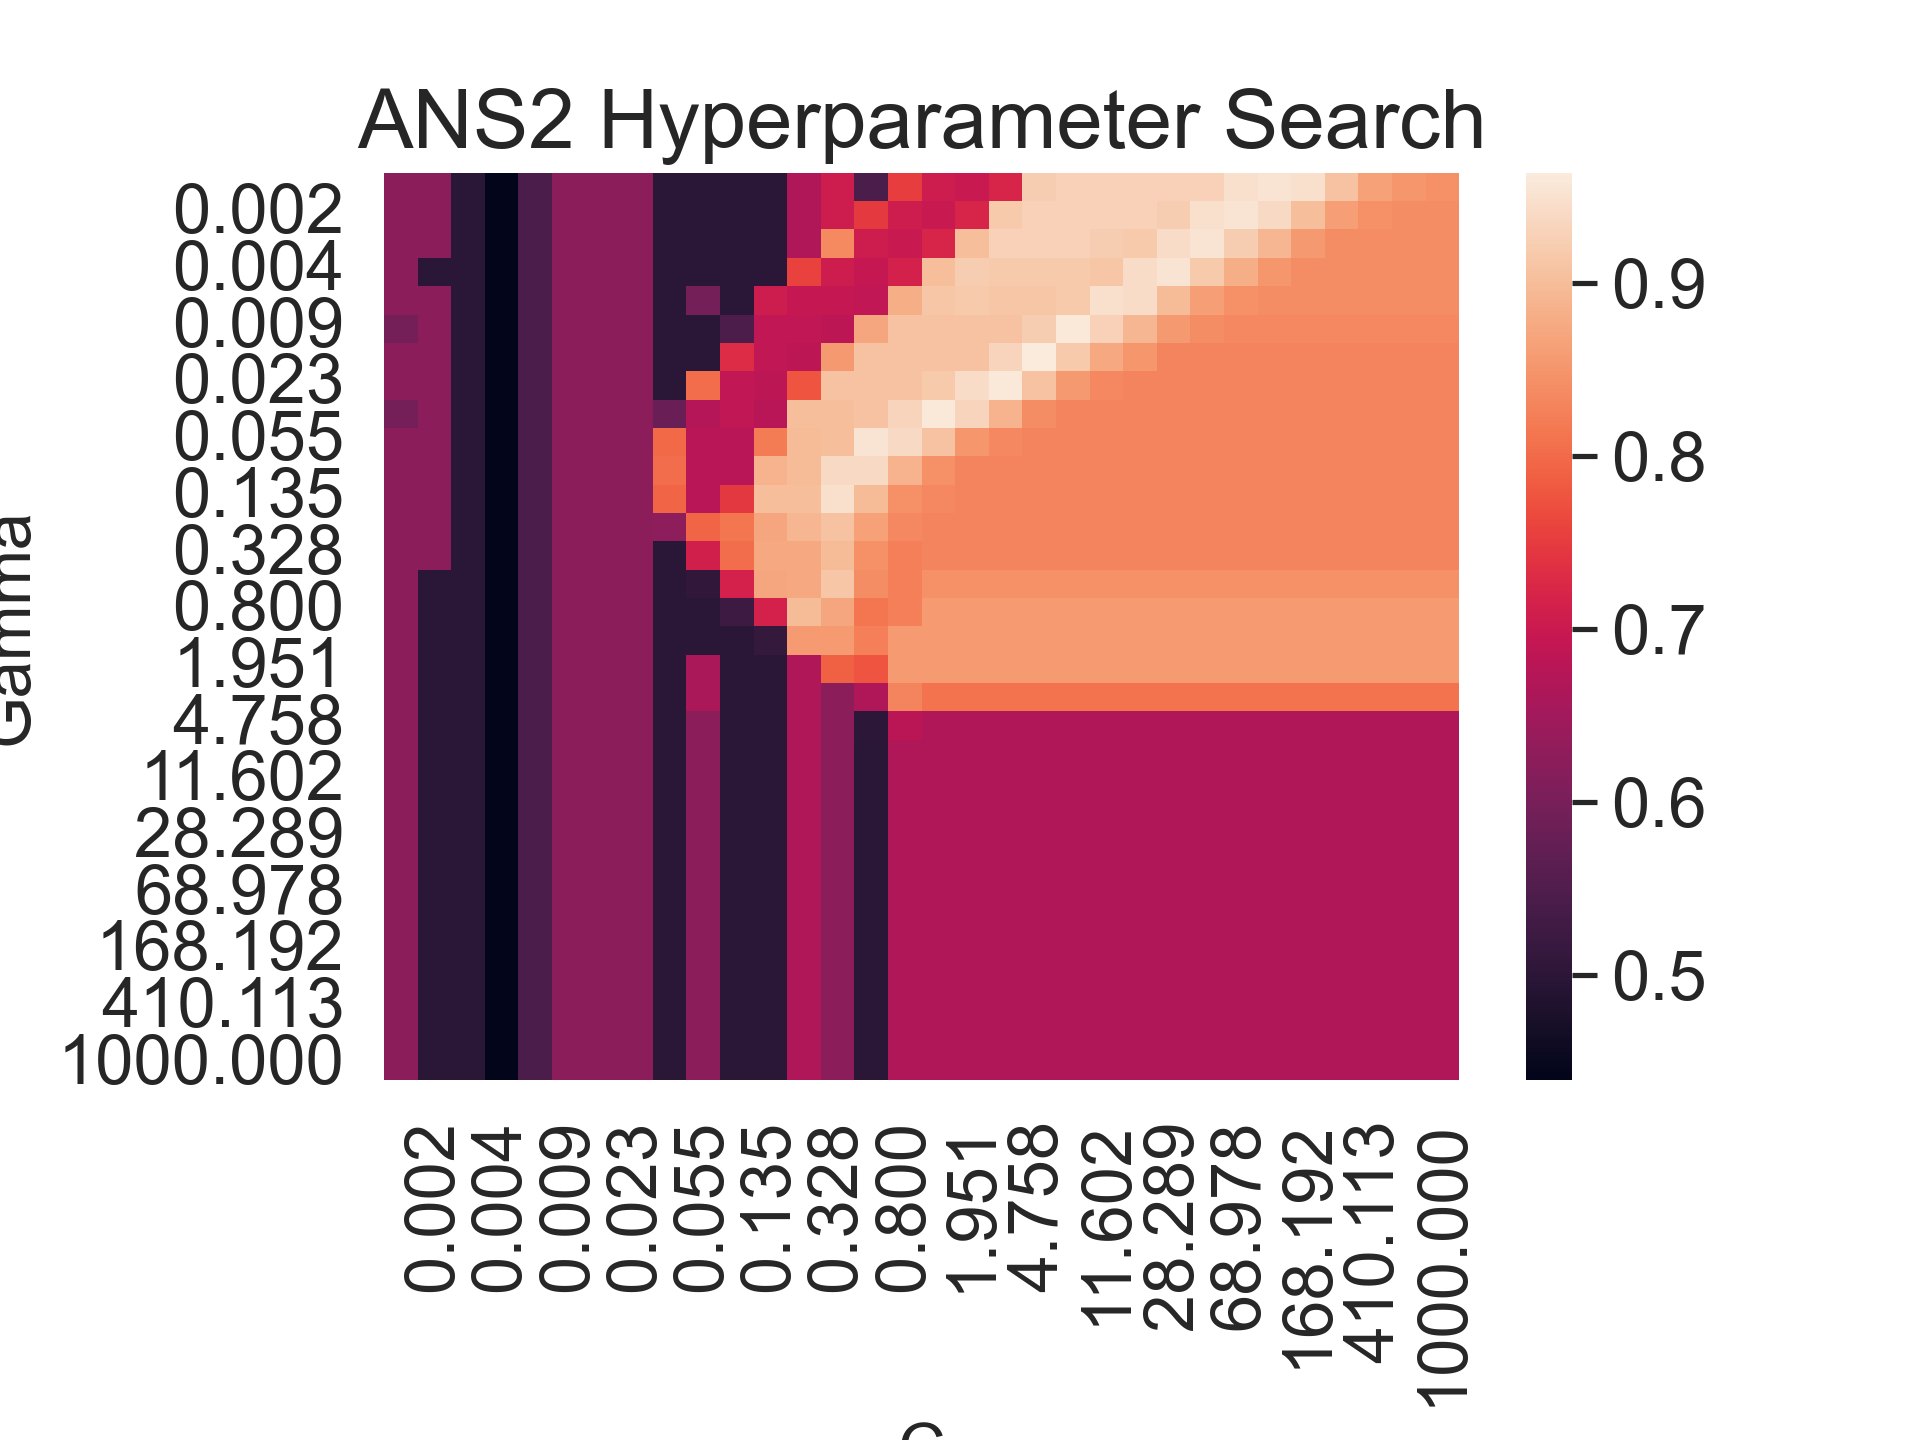
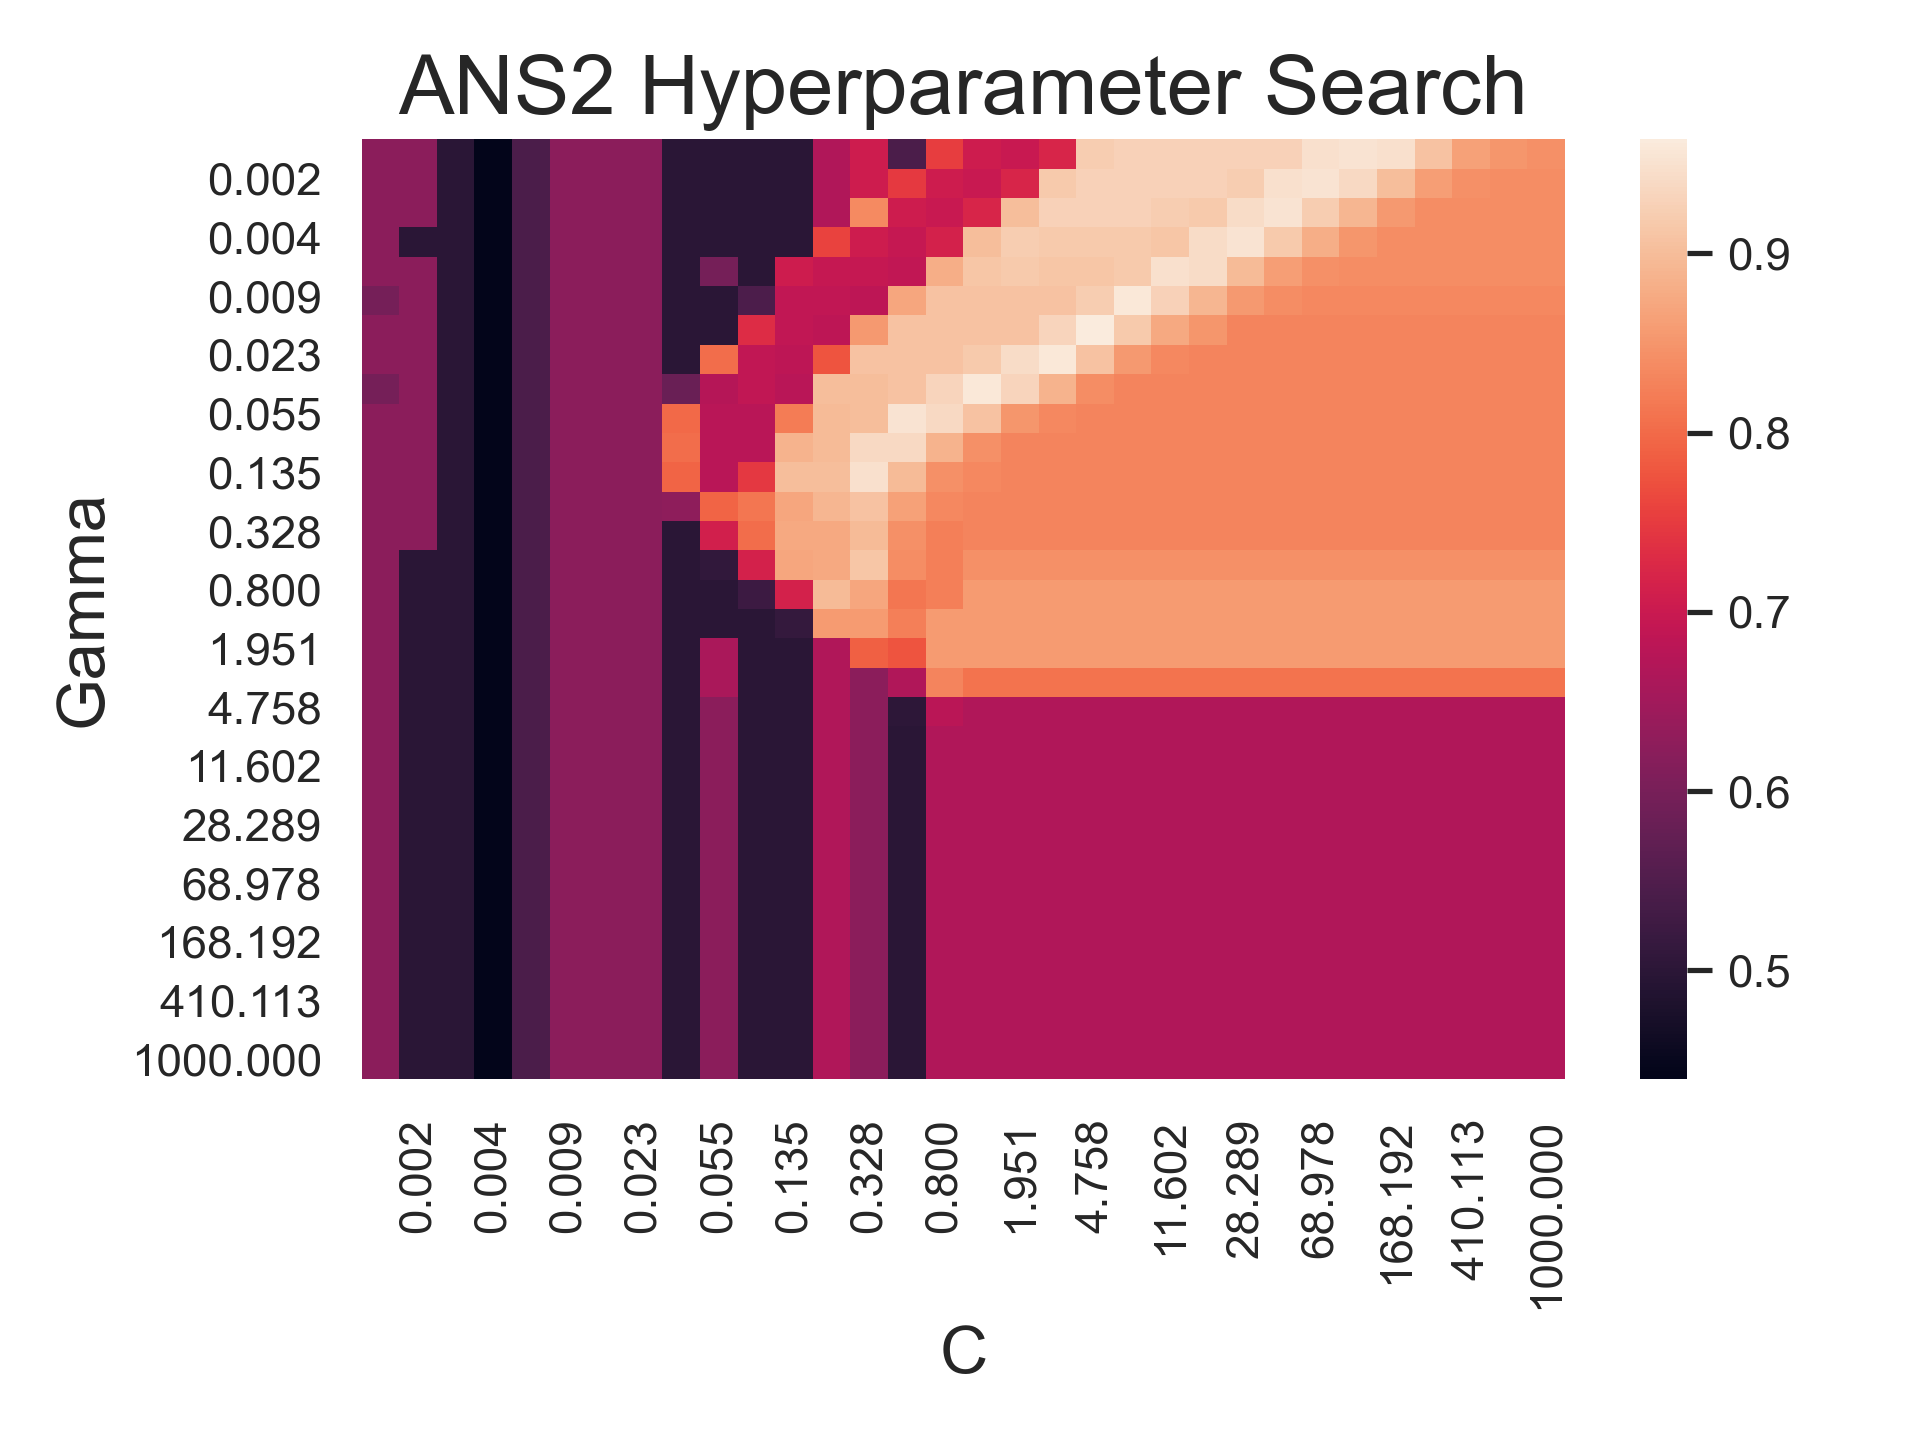
major refactor, add heatmap results.

diff --git a/analyze_ICA_components.py b/analyze_ICA_components.py
@@ -1,0 +1,157 @@
+import re
+import pandas as pd
+import seaborn as sns
+import matplotlib.pyplot as plt
+from scipy.stats import ttest_ind
+
+
+def load_data(file_path):
+    """Load CSV data into a pandas DataFrame with manual headers."""
+    return pd.read_csv(file_path, header=None,
+                       names=['File Path', 'Number of Components', 'Mean Component Probability'])
+
+
+def extract_subject_code(file_path):
+    """Extract subject code from the file path."""
+    match = re.search(r'\\([A-Z]+[0-9]+)\\', file_path)
+    if match:
+        return match.group(1)
+    return None
+
+
+def map_private_to_public(file_path, group, df_CodeMap):
+    """Map private subject code to public subject code using the CodeMap."""
+    subject_code = extract_subject_code(file_path)
+    if subject_code:
+        # print(f"Subject Code: {subject_code}")
+        match_row = None
+        if group == 'AWS' and subject_code.startswith('S'):
+            # print("Mapping to AWS")
+            match_row = df_CodeMap[df_CodeMap['AWS'] == subject_code]
+        elif group == 'ANS' and subject_code.startswith('C'):
+            # print("Mapping to ANS")
+            match_row = df_CodeMap[df_CodeMap['ANS'] == subject_code]
+
+        if match_row is not None and not match_row.empty:
+            return match_row.iloc[0]['AWS_New'] if group == 'AWS' else match_row.iloc[0]['ANS_New']
+
+    return None
+
+
+def preprocess_data(df, group, df_CodeMap):
+    """Preprocess the data by mapping private to public subject codes."""
+    df['Public_Code'] = df.apply(lambda row: map_private_to_public(row['File Path'], group, df_CodeMap), axis=1)
+    df = df.dropna(subset=['Public_Code'])  # Drop rows where Public_Code is None
+    return df
+
+
+def create_seaborn_plot(df):
+    """Create a seaborn bar plot comparing the number of components across groups."""
+    sns.set(style="whitegrid")
+
+    # Assuming your columns are named 'Public_Code', 'Number of Components', and 'Group'
+    sns.barplot(x='Public_Code', y='Number of Components', hue='Group', data=df)
+
+    plt.title('Number of Non-Artifactual Components')
+    plt.xlabel('Subject')
+    plt.ylabel('Number of Components')
+    plt.legend(title='Group')
+
+    # Rotate X axis labels for better readability
+    plt.xticks(rotation=45, ha='right')
+
+    # Save the plot with informative name
+    plt.savefig('number_of_components_comparison.png', dpi=300)
+
+    # Show the plot
+    plt.show()
+
+
+def create_mean_probability_plot(df):
+    """Create a seaborn bar plot comparing the mean probability across groups."""
+    sns.set(style="whitegrid")
+
+    # Remove percentage sign and convert to decimal
+    df['Mean Component Probability'] = df['Mean Component Probability'].str.rstrip('%').astype('float') / 100.0
+
+    # Assuming your columns are named 'Public_Code', 'Mean Component Probability', and 'Group'
+    sns.barplot(x='Public_Code', y='Mean Component Probability', hue='Group', data=df)
+
+    plt.title('Mean Component Probability Comparison')
+    plt.xlabel('Subject')
+    plt.ylabel('Mean Component Probability')
+    plt.legend(title='Group')
+
+    # Rotate X axis labels for better readability
+    plt.xticks(rotation=45, ha='right')
+
+    # Save the plot with an informative name
+    plt.savefig('mean_component_probability_comparison.png', dpi=300)
+
+    # Show the plot
+    plt.show()
+
+
+def conduct_t_tests(df):
+    """Conduct independent t-tests and save results to a CSV file."""
+    ans_data = df[df['Group'] == 'ANS']['Number of Components']
+    aws_data = df[df['Group'] == 'AWS']['Number of Components']
+
+    # Independent t-test for Number of Components
+    t_stat_comp, p_val_comp = ttest_ind(ans_data, aws_data, equal_var=False)
+
+    ans_prob = df[df['Group'] == 'ANS']['Mean Component Probability']
+    aws_prob = df[df['Group'] == 'AWS']['Mean Component Probability']
+
+    # Independent t-test for Mean Component Probability
+    t_stat_prob, p_val_prob = ttest_ind(ans_prob, aws_prob, equal_var=False)
+
+    # Create a DataFrame to save the results
+    results_df = pd.DataFrame({
+        'Metric': ['Number of Components', 'Mean Component Probability'],
+        'T-Statistic': [t_stat_comp, t_stat_prob],
+        'P-Value': [p_val_comp, p_val_prob]
+    })
+
+    # Save the results to a CSV file
+    results_df.to_csv('t_test_results.csv', index=False)
+
+    return results_df
+
+
+def main():
+    # Step 1: Load the data
+    file_path_ANS = r'D:\Research\EEG-DIVA\SpeakingDAF\SpeakingDAF\ICA_summary_stats_ANS.csv'
+    file_path_AWS = r'D:\Research\EEG-DIVA\SpeakingDAF_S\ICA_summary_stats_AWS.csv'
+    file_path_CodeMap = r'H:\My Drive\Fall 2022\eeg_proj\eeglab2021.1\Subject_CodeMap.csv'
+
+    df_ANS = load_data(file_path_ANS)
+    df_AWS = load_data(file_path_AWS)
+    # Assign 'Group' column to df_ANS and df_AWS
+    df_ANS['Group'] = 'ANS'
+    df_AWS['Group'] = 'AWS'
+
+    # Concatenate dataframes
+    df_combined = pd.concat([df_ANS, df_AWS], ignore_index=True)
+
+    # Preprocess data and create 'Public_Code' column
+    df_CodeMap = pd.read_csv(file_path_CodeMap)
+    df_ANS = preprocess_data(df_ANS, 'ANS', df_CodeMap)
+    df_AWS = preprocess_data(df_AWS, 'AWS', df_CodeMap)
+
+    # Combine dataframes
+    df_combined = pd.concat([df_ANS, df_AWS], ignore_index=True)
+    # Remove percentage sign and convert to decimal
+    df_combined['Mean Component Probability'] = df_combined['Mean Component Probability'].str.rstrip('%').astype('float') / 100.0
+
+    # Create seaborn plots
+    # create_seaborn_plot(df_combined)
+    # create_mean_probability_plot(df_combined)
+    # Usage
+    t_test_results = conduct_t_tests(df_combined)
+
+    # print(t_test_results)
+
+
+if __name__ == "__main__":
+    main()

diff --git a/util.py b/util.py
@@ -104,7 +104,71 @@ def update_column_in_dataframes(directory_path, column_name, replacement_dict):
 
 
 # Example usage:
-directory_path = './pkl_data'  # Replace with the path to your directory containing .pkl files
-column_name = 'Subject'  # Replace with the name of the column you want to update
+# directory_path = './pkl_data'  # Replace with the path to your directory containing .pkl files
+# column_name = 'Subject'  # Replace with the name of the column you want to update
+#
+# update_column_in_dataframes(directory_path, column_name, replacement_dict)
 
-update_column_in_dataframes(directory_path, column_name, replacement_dict)
+from PIL import Image
+import os
+import re
+
+
+def extract_subject_number(filename):
+    # Extract the numeric part of the filename
+    match = re.search(r'(\d+)', filename[2:])
+    if match:
+        return int(match.group(0))
+    return 0
+
+
+def merge_images(directory_path):
+    # Create a merged directory if it doesn't exist
+    merged_dir = os.path.join(directory_path, "merged")
+    os.makedirs(merged_dir, exist_ok=True)
+
+    # Collect files matching the naming convention
+    ans_files = []
+    aws_files = []
+
+    for filename in os.listdir(directory_path):
+        if filename.endswith(".png"):
+            if filename.startswith("42_ANS"):
+                ans_files.append(filename)
+            elif filename.startswith("42_AWS"):
+                aws_files.append(filename)
+
+    # Sort files based on the extracted numeric part
+    ans_files.sort(key=extract_subject_number)
+    aws_files.sort(key=extract_subject_number)
+
+    # Merge ANS images
+    for i in range(0, len(ans_files), 2):
+        image1 = Image.open(os.path.join(directory_path, ans_files[i]))
+        image2 = Image.open(os.path.join(directory_path, ans_files[i + 1] if i + 1 < len(ans_files) else ans_files[i]))
+        merged_image = Image.new('RGB', (image1.width + image2.width, image1.height), (255, 255, 255))
+        merged_image.paste(image1, (0, 0))
+        merged_image.paste(image2, (image1.width, 0))
+
+        # Set the DPI for the merged image to 300 DPI
+        merged_image.info['dpi'] = (300, 300)
+
+        merged_image.save(os.path.join(merged_dir, f"merged_{ans_files[i]}_{ans_files[i + 1]}"), dpi=(300, 300))
+
+    # Merge AWS images
+    for i in range(0, len(aws_files), 2):
+        image1 = Image.open(os.path.join(directory_path, aws_files[i]))
+        image2 = Image.open(os.path.join(directory_path, aws_files[i + 1] if i + 1 < len(aws_files) else aws_files[i]))
+        merged_image = Image.new('RGB', (image1.width + image2.width, image1.height), (255, 255, 255))
+        merged_image.paste(image1, (0, 0))
+        merged_image.paste(image2, (image1.width, 0))
+
+        # Set the DPI for the merged image to 300 DPI
+        merged_image.info['dpi'] = (300, 300)
+
+        merged_image.save(os.path.join(merged_dir, f"merged_{aws_files[i]}_{aws_files[i + 1]}"), dpi=(300, 300))
+
+
+if __name__ == "__main__":
+    directory_path = "results/figures/heatmaps"
+    merge_images(directory_path)

diff --git a/data_analysis.py b/data_analysis.py
@@ -25,6 +25,7 @@ def run_sanity_checks(patho):
     base_dir = 'D:\\Research\\EEG-DIVA\\Feature_Selection_PCA'
     index_file = f'{base_dir}\\C_index.json'
     global c_POW
+
     if patho:
         index_file = f'{base_dir}\\S_index.json'
 
@@ -1062,6 +1063,7 @@ def plot_param_heatmap(valid_df, title):
     g.set_title(title, fontsize=20)
     plt.subplots_adjust(bottom=0.25)
     plt.subplots_adjust(left=0.20)
+    plt.tight_layout()
     plt.savefig(f'./results/figures/heatmaps/{seed}_{title}_{c_POW}.png', dpi=300)
     plt.close()
     # plt.show()
@@ -1158,8 +1160,10 @@ def plot_C_slices(valid_df, title):
 def sanity_test(subject):
     global seed
     seed = 42
+    cp = 3
+    set_c_POW(cp)
     global c_POW
-    c_POW = 3
+    c_POW = get_c_POW()
     scaleTransform = True
 
     pub_subj = get_new_subject_name(subject)

diff --git a/main.py b/main.py
@@ -16,11 +16,11 @@ if __name__ == "__main__":
     trimmed_combined_name = f'./optimal_c_Increasing_Gamma_all_seeds_3_trimmed.pkl'
     plot_opt_c_increasing_Gamma(trimmed_combined_name)
 
-    run_sanity_checks(patho=False)
-    run_sanity_checks(patho=True)
-    remove_subjects()
-    run_proportion_tests()
-    plot_all_seeds()
+    # run_sanity_checks(patho=False)
+    # run_sanity_checks(patho=True)
+    # remove_subjects()
+    # run_proportion_tests()
+    # plot_all_seeds()
     c_pow_range = [1, 3, 5, 7]
     for c in c_pow_range:
         c_POW = c

diff --git a/model_training.py b/model_training.py
@@ -120,7 +120,7 @@ def nested_CV_Intra_Subj3(subject, df, scaleTransform):
     # configure the outer loop
     cv_outer = KFold(n_splits=4, shuffle=True, random_state=1)
     # define search space
-    global c_POW
+    c_POW = get_c_POW()
     lower_C = c_POW * -1
     upper_C = c_POW
     C_range = np.logspace(lower_C, upper_C, 32)

diff --git a/data_preprocessing.py b/data_preprocessing.py
@@ -17,6 +17,12 @@ def set_seed(sd):
 def get_seed():
     return seed
 
+def set_c_POW(cp):
+    global c_POW
+    c_POW = cp
+
+def get_c_POW():
+    return c_POW
 
 def train_test_split_helper(feat_type, subject):
     patho = False
